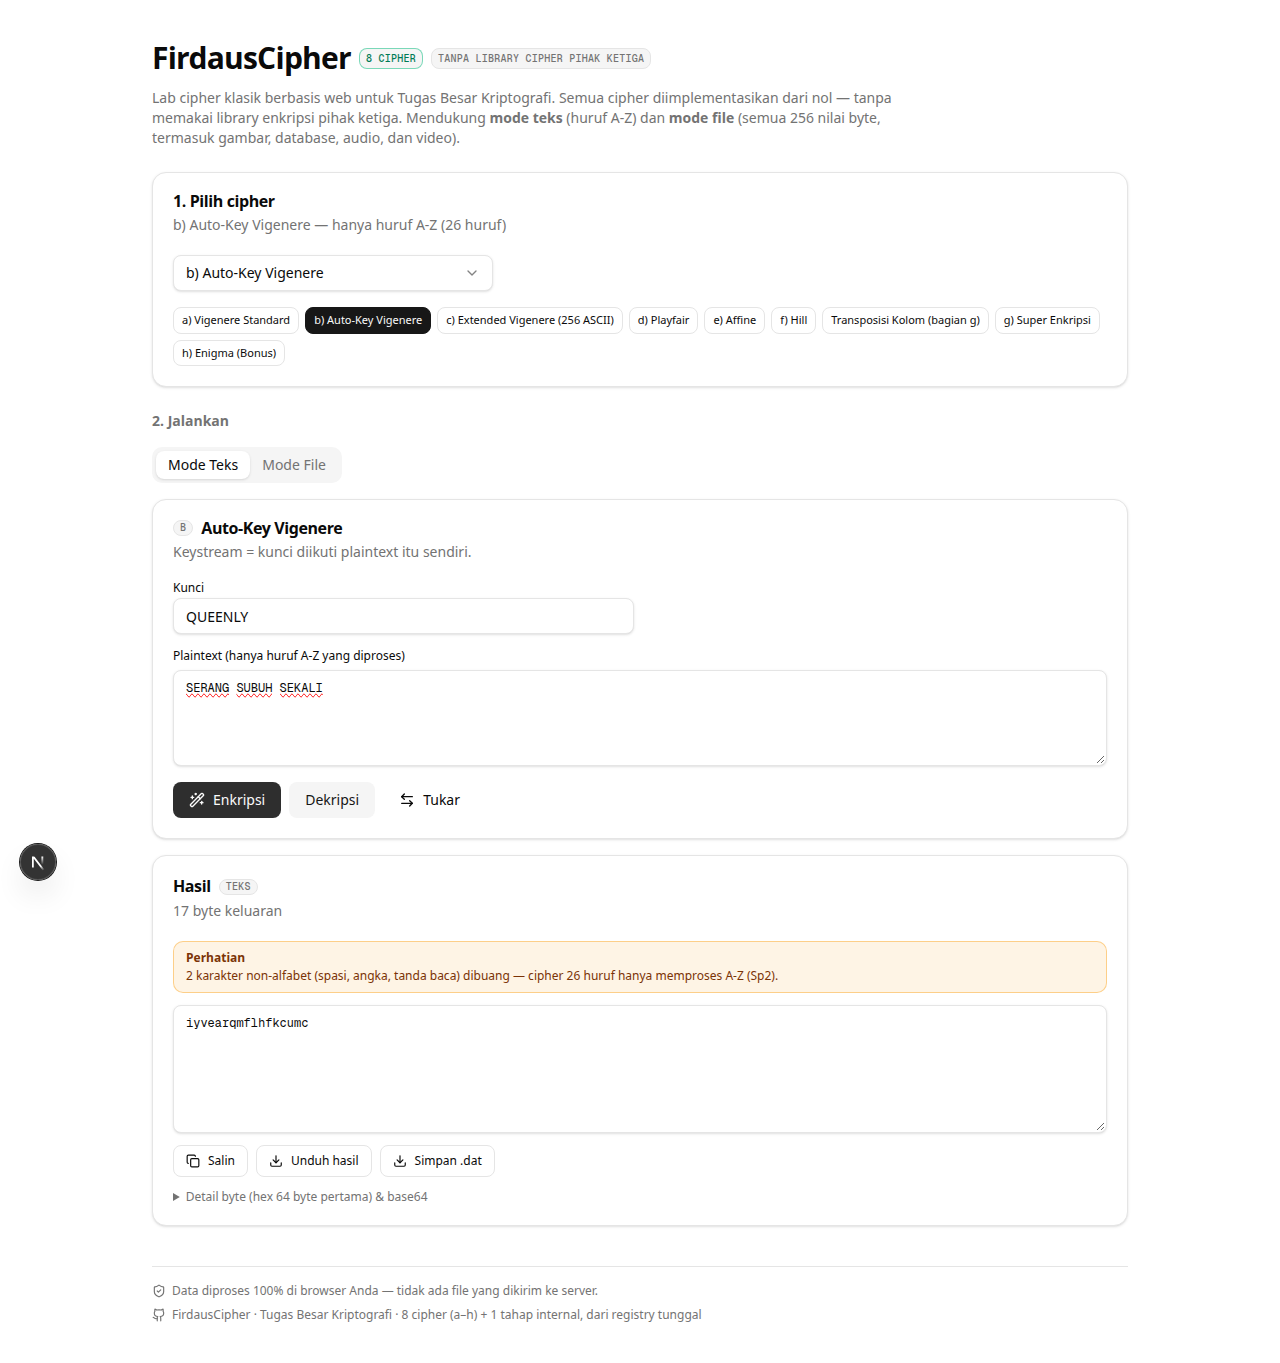
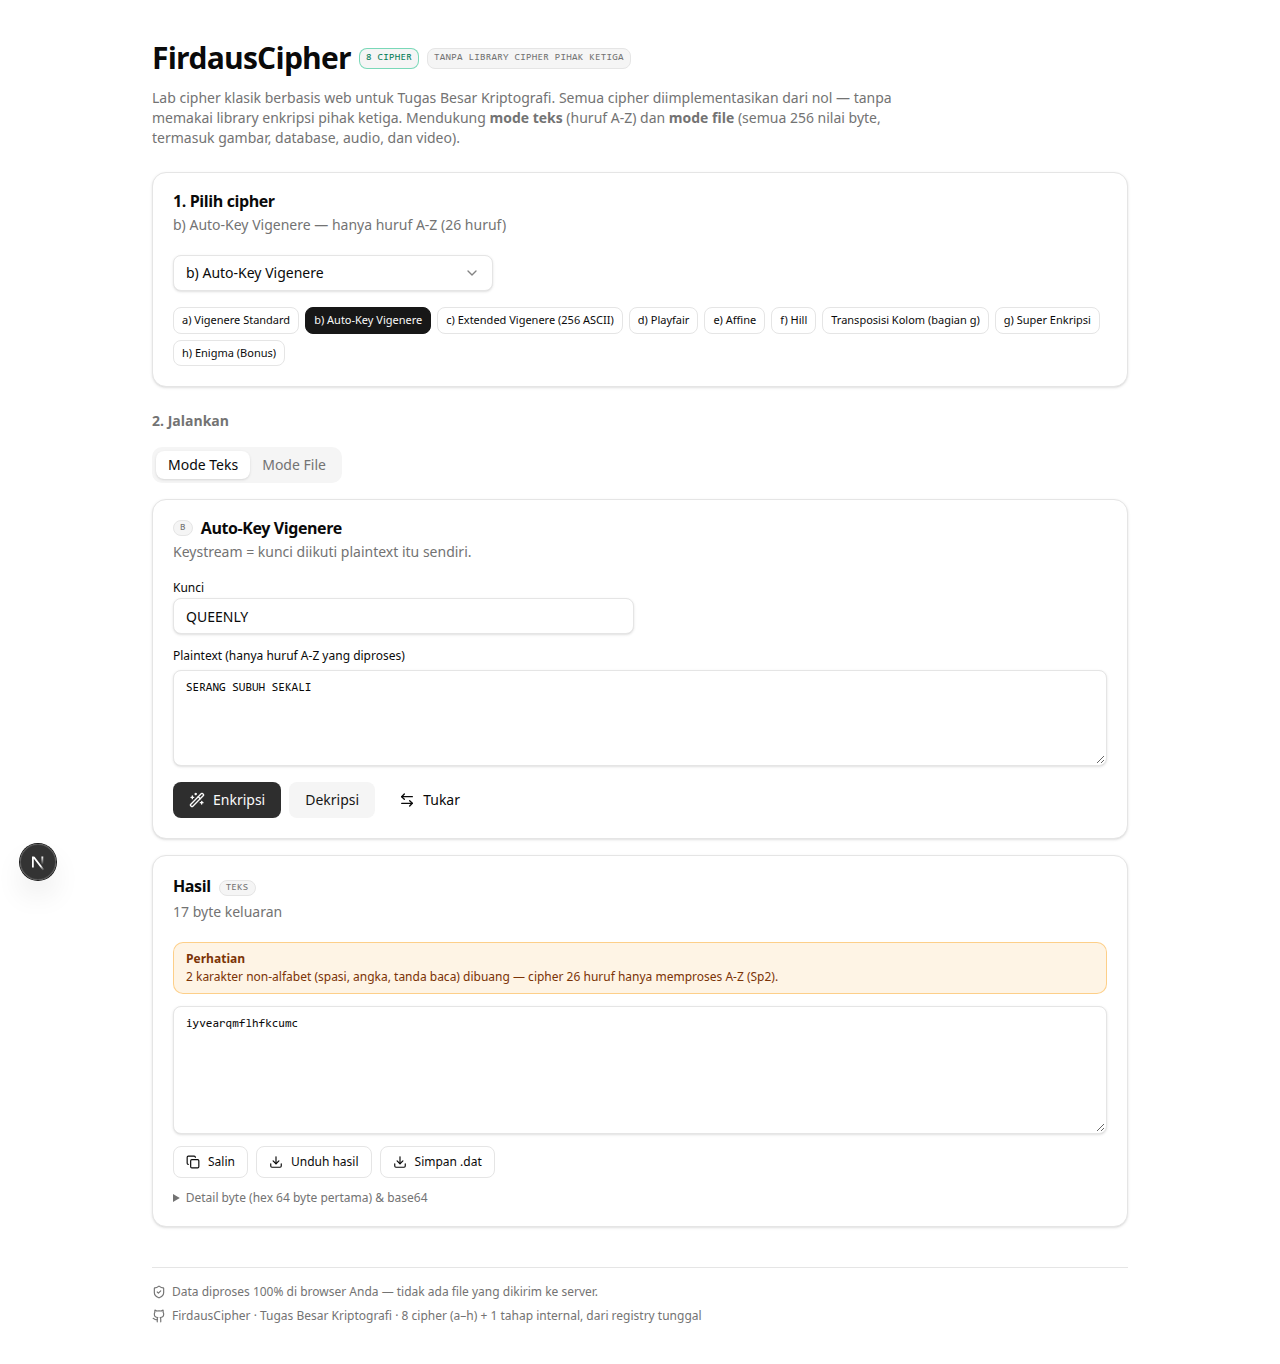
fix(web): bisa jalan OFFLINE penuh - ganti font Google ke font sistem
Masalah: `pnpm build` GAGAL total tanpa internet karena layout.tsx memakai
next/font/google (Geist), yang mengunduh dari fonts.googleapis.com saat build:

  [Error: Turbopack build failed ... Failed to fetch `Geist` from Google Fonts.]

Ini berisiko saat demo/presentasi di kelas tanpa wifi. Dibuktikan dgn
mematikan jaringan di tingkat OS (bwrap --unshare-net).

Perbaikan:
- apps/web/src/app/layout.tsx: hapus next/font/google, pakai font sistem.
- apps/web/src/app/globals.css: --font-sans / --font-mono -> tumpukan font
  sistem (system-ui, Segoe UI, Roboto, ... / ui-monospace, Menlo, Consolas, ...).

Hasil uji dgn jaringan MATI (bwrap --unshare-net), bukan sekadar cek kode:
- pnpm build (produksi)          -> Berhasil
- pnpm start, halaman utama      -> HTTP 200
- enkripsi Vigenere di peramban  -> didoarwgphswqynwm
- dekripsi                       -> serangsubuhsekali
- permintaan keluar non-lokal    -> 0 (tidak ada)
- API Ruby /health + encrypt/decrypt -> OK
- skrip screenshot (R1)          -> 11/11
- pnpm verify                    -> 254 tes TS + 127 tes Ruby, 0 gagal

Dokumentasi:
- README.md + apps/web/README.md: bagian "Bisa jalan offline" + tabel tahap
  mana yang butuh internet (hanya `pnpm install` yang butuh, sekali).
- Laporan Bab 7.6 "Dapat Berjalan Sepenuhnya Offline" + tabel bukti.
  Screenshot laporan diregenerasi dgn font baru (hasil cipher identik).

Laporan PDF kini 36 halaman (dari 35); angka tetap diambil otomatis dari
[…]

diff --git a/apps/web/src/app/layout.tsx b/apps/web/src/app/layout.tsx
@@ -1,17 +1,10 @@
 import type { Metadata } from "next";
-import { Geist, Geist_Mono } from "next/font/google";
 import "./globals.css";
 
-const geistSans = Geist({
-  variable: "--font-geist-sans",
-  subsets: ["latin"],
-});
-
-const geistMono = Geist_Mono({
-  variable: "--font-geist-mono",
-  subsets: ["latin"],
-});
-
+// Font memakai tumpukan font SISTEM (lihat globals.css: --font-sans / --font-mono).
+// Sengaja TIDAK memakai next/font/google supaya:
+//   1. `pnpm build` berhasil TANPA internet (demo di kelas tanpa wifi tetap jalan),
+//   2. tidak ada permintaan ke fonts.googleapis.com saat build maupun saat dipakai.
 export const metadata: Metadata = {
   title: "FirdausCipher — Lab Cipher Klasik",
   description:
@@ -25,11 +18,7 @@ export default function RootLayout({
 }>) {
   return (
     <html lang="id" suppressHydrationWarning>
-      <body
-        className={`${geistSans.variable} ${geistMono.variable} antialiased`}
-      >
-        {children}
-      </body>
+      <body className="antialiased">{children}</body>
     </html>
   );
 }

diff --git a/apps/web/src/app/globals.css b/apps/web/src/app/globals.css
@@ -69,8 +69,11 @@
   --color-border: var(--border);
   --color-input: var(--input);
   --color-ring: var(--ring);
-  --font-sans: var(--font-geist-sans);
-  --font-mono: var(--font-geist-mono);
+  /* Font sistem: nol unduhan, build & jalan penuh tanpa internet. */
+  --font-sans: system-ui, -apple-system, "Segoe UI", Roboto, "Helvetica Neue",
+    Arial, "Noto Sans", sans-serif;
+  --font-mono: ui-monospace, "SF Mono", "Cascadia Mono", Menlo, Consolas,
+    "Liberation Mono", "Courier New", monospace;
 }
 
 @layer base {

diff --git a/laporan/build-laporan.py b/laporan/build-laporan.py
@@ -584,6 +584,29 @@ def bab7() -> str:
   <p>Perhitungan cipher (termasuk file besar) dijalankan di <i>web worker</i>
   sehingga antarmuka tetap responsif dan tidak "membeku" saat memproses file
   berukuran besar.</p>
+
+  <h3 class="h3">7.6 Dapat Berjalan Sepenuhnya Offline</h3>
+  <p>Program dirancang agar dapat didemonstrasikan <b>tanpa koneksi internet</b>
+  — berguna untuk presentasi di kelas tanpa wifi. Tidak ada CDN, tidak ada
+  panggilan API luar, dan tidak ada font daring: seluruh kriptografi dihitung
+  di dalam peramban, sedangkan halaman memakai font sistem.</p>
+  <p>Hal ini <b>diuji secara nyata</b> dengan mematikan jaringan pada tingkat
+  sistem operasi (<code>bwrap --unshare-net</code>), bukan sekadar diperiksa
+  dari kode:</p>
+  <table class="tbl keep">
+    <tr><th>Yang diuji (jaringan mati)</th><th>Hasil</th></tr>
+    <tr><td><code>pnpm build</code> (produksi)</td><td class="ok">Berhasil ✓</td></tr>
+    <tr><td>Aplikasi melayani halaman (<code>pnpm start</code>)</td><td class="ok">HTTP 200 ✓</td></tr>
+    <tr><td>Enkripsi Vigenere di peramban</td><td class="ok">didoarwgphswqynwm ✓</td></tr>
+    <tr><td>Dekripsi mengembalikan teks semula</td><td class="ok">serangsubuhsekali ✓</td></tr>
+    <tr><td>Permintaan keluar ke internet</td><td class="ok">0 (tidak ada) ✓</td></tr>
+    <tr><td>REST API Ruby (<code>/health</code>, encrypt/decrypt)</td><td class="ok">Berhasil ✓</td></tr>
+    <tr><td>Skrip screenshot (bukti R1)</td><td class="ok">11/11 ✓</td></tr>
+  </table>
+  <p class="note">Sebelumnya aplikasi memakai <code>next/font/google</code>
+  (Geist) sehingga <code>pnpm build</code> <b>gagal</b> saat tidak ada internet.
+  Font tersebut diganti ke tumpukan font sistem agar aman saat demo offline;
+  seluruh 254 tes TypeScript dan 127 tes Ruby tetap lulus setelah perubahan.</p>
 </section>
 """
 
@@ -736,6 +759,8 @@ table.tbl th { background: #0b3d6b; color: #fff; text-align: left;
                font-size: 9pt; }
 table.tbl td { border: 1px solid #c8d2dc; padding: 4px 6px; vertical-align: top; }
 table.tbl tr:nth-child(even) td { background: #f7f9fb; }
+table.tbl tr { page-break-inside: avoid; }
+table.keep { page-break-inside: avoid; }
 .ctr { text-align: center; }
 .num { text-align: right; white-space: nowrap; }
 .ok { color: #0a7a2f; font-weight: bold; }

diff --git a/docs/PLAN.md b/docs/PLAN.md
@@ -775,6 +775,7 @@ Format: `YYYY-MM-DD HH:MM | STEP | STATUS | catatan singkat`
 2026-10-08 12:10 | FIX  | DONE | label cipher ganda: `columnar` & `super` SAMA-SAMA berlabel "g" (soal: g = Super Enkripsi; Transposisi Kolom hanya tahap internal, PLAN S11 "bagian dari g") -> ditemukan saat menyiapkan screenshot R1. Diperbaiki di KEDUA sisi: CipherDef.componentOf + cipherLabel() (TS) dan field "label" server (Ruby) dengan format identik; UI kini "Transposisi Kolom (bagian g)" & "g) Super Enkripsi". Badge "8 cipher" hardcoded -> dihitung dari registry ("8 cipher (a-h) + 1 tahap internal"). page.test.tsx ikut pakai cipherLabel() supaya tidak ada tes yang mengunci label lama
 2026-10-08 12:10 | S29 | PART | screenshot R1 otomatis: apps/web/scripts/screenshots.ts (pnpm screenshots) ambil 9 cipher mode teks -> laporan/screenshot/ui-*.png + screenshots.json. Terverifikasi lewat perintah resmi 9/9 OK, isi hasil dicek manual (Vigenere SERANG SUBUH SEKALI+LEMON=didoarwgphswqynwm). Sisa S29: susun PDF
 2026-10-08 12:35 | S29 | PART | screenshot mode FILE (R2) ditambah ke skrip yang sama: 2 kasus (contoh.png via ext-vigenere, contoh.sqlite via super) -> laporan/screenshot/file-*.png. Total 11/11 OK; isi dicek manual (contoh.png 90687 B -> contoh.png.dat, hex preview tampil, tanpa error)
+2026-10-08 13:40 | S31 | DONE | FIX: aplikasi kini bisa jalan OFFLINE penuh. Sebelumnya `pnpm build` GAGAL tanpa internet (next/font/google -> fonts.googleapis.com). Diganti font sistem (layout.tsx + globals.css). Diuji nyata dgn jaringan dimatikan (bwrap --unshare-net): build sukses, `pnpm start` HTTP 200, enkripsi Vigenere -> didoarwgphswqynwm, dekripsi -> serangsubuhsekali, 0 permintaan keluar, API Ruby OK (health/encrypt/decrypt), screenshot 11/11. pnpm verify tetap hijau (254 TS + 127 Ruby). Ditulis di README (root + apps/web) + laporan Bab 7.6. Laporan PDF jadi 36 hal.
 2026-10-08 13:05 | S29 | DONE | Laporan PDF 35 hal (1,5 MB) via Chromium headless. Generator build-laporan.py menarik SEMUA angka dari berkas bukti (bukan diketik manual): 27/27 cross-verify, 15/15 file byte-identik, 11 screenshot, hitungan baris 11 modul kode — dicek ulang & cocok. Tabel centang 9/9 Berhasil + baris Transposisi Kolom, diisi jujur. Bab 8 Catatan Jujur menguraikan keterbatasan apa adanya. 35 hal dicek tak ada teks meluber (margin kanan >=41pt via pdftotext -bbox); cover & tabel diverifikasi visual. Atas pilihan pemilik: individu, Farid Firdaus/237006081, kode disajikan ringkas (struktur + modul inti)
 2026-10-08 12:50 | S28 | DONE | README lengkap: root (10,9 KB) + apps/web (4,8 KB) + apps/api (5,7 KB). Bukan salinan: SEMUA angka & contoh diverifikasi ulang ke kode nyata (254 tes web, 127 spec Ruby, 27/27 cross-verify, 15/15 roundtrip, contoh API via rack-test, Hill ACT->poh, tautan internal dicek). 4 klaim salah ditemukan & diperbaiki: batas file 100 MB (bukan 8 MB), cipher.worker.ts (bukan crypto.worker.ts), 11 modul crypto (bukan 9), dan perilaku dekripsi mode teks (spasi/huruf besar tidak kembali -> didokumentasikan apa adanya). Bagian deploy/URL produksi sengaja belum ditulis (menunggu F8)
 2026-10-08 12:20 | S29 | PART | tabel file uji R2 (dulu kosong ⬜) diisi dari laporan/uji-file/roundtrip.json apa adanya: 5 kategori x SHA-256 identik; nama file dikoreksi ke yang NYATA ada (contoh.png/contoh.wav, bukan jpg/mp3 di draft). Sisa: PDF

diff --git a/README.md b/README.md
@@ -98,6 +98,28 @@ Tiga kolom harus sama — sehingga tidak mungkin kedua implementasi "sama-sama s
 Hanya **Node.js + pnpm** yang dibutuhkan untuk memakai aplikasi web. Ruby
 diperlukan hanya untuk menjalankan/menguji backend.
 
+### Bisa jalan offline (tanpa internet)?
+
+**Ya — sepenuhnya offline**, setelah dependensi terpasang sekali. Tidak ada
+CDN, tidak ada panggilan API luar, tidak ada font Google: seluruh kriptografi
+dihitung di browser/Node sendiri, dan halaman memakai font sistem.
+
+| Tahap | Butuh internet? |
+|---|---|
+| `pnpm install` (sekali di awal) | **Ya** (unduh paket) |
+| `pnpm build`, `pnpm dev`, `pnpm api` | **Tidak** |
+| Memakai aplikasi (enkripsi/dekripsi, mode file) | **Tidak** |
+| `pnpm test`, `pnpm cross-verify` | **Tidak** |
+
+Sudah diuji dengan jaringan dimatikan (`bwrap --unshare-net`): build sukses,
+aplikasi melayani halaman (HTTP 200) dan enkripsi Vigenere menghasilkan
+`didoarwgphswqynwm` tanpa satu pun permintaan keluar. Cocok untuk demo di
+kelas tanpa wifi.
+
+> **Catatan (S31):** sebelumnya aplikasi memakai `next/font/google` (Geist)
+> sehingga `pnpm build` **gagal** tanpa internet. Sudah diganti ke font sistem
+> agar aman saat demo offline.
+
 ---
 
 ## Menjalankan dari nol

diff --git a/apps/web/README.md b/apps/web/README.md
@@ -17,6 +17,14 @@ pnpm install
 pnpm dev                       # http://localhost:3000
 ```
 
+### Offline
+
+Setelah `pnpm install` sekali, seluruh proses berikut **tidak butuh internet**:
+`pnpm build`, `pnpm dev`, `pnpm start`, dan pemakaian aplikasi. Tidak ada CDN
+maupun panggilan API luar — kriptografi dihitung di browser. Font memakai font
+**sistem** (bukan `next/font/google`) justru agar `pnpm build` tetap sukses
+tanpa jaringan (mis. saat demo di kelas tanpa wifi).
+
 Atau dari folder ini:
 
 ```bash
